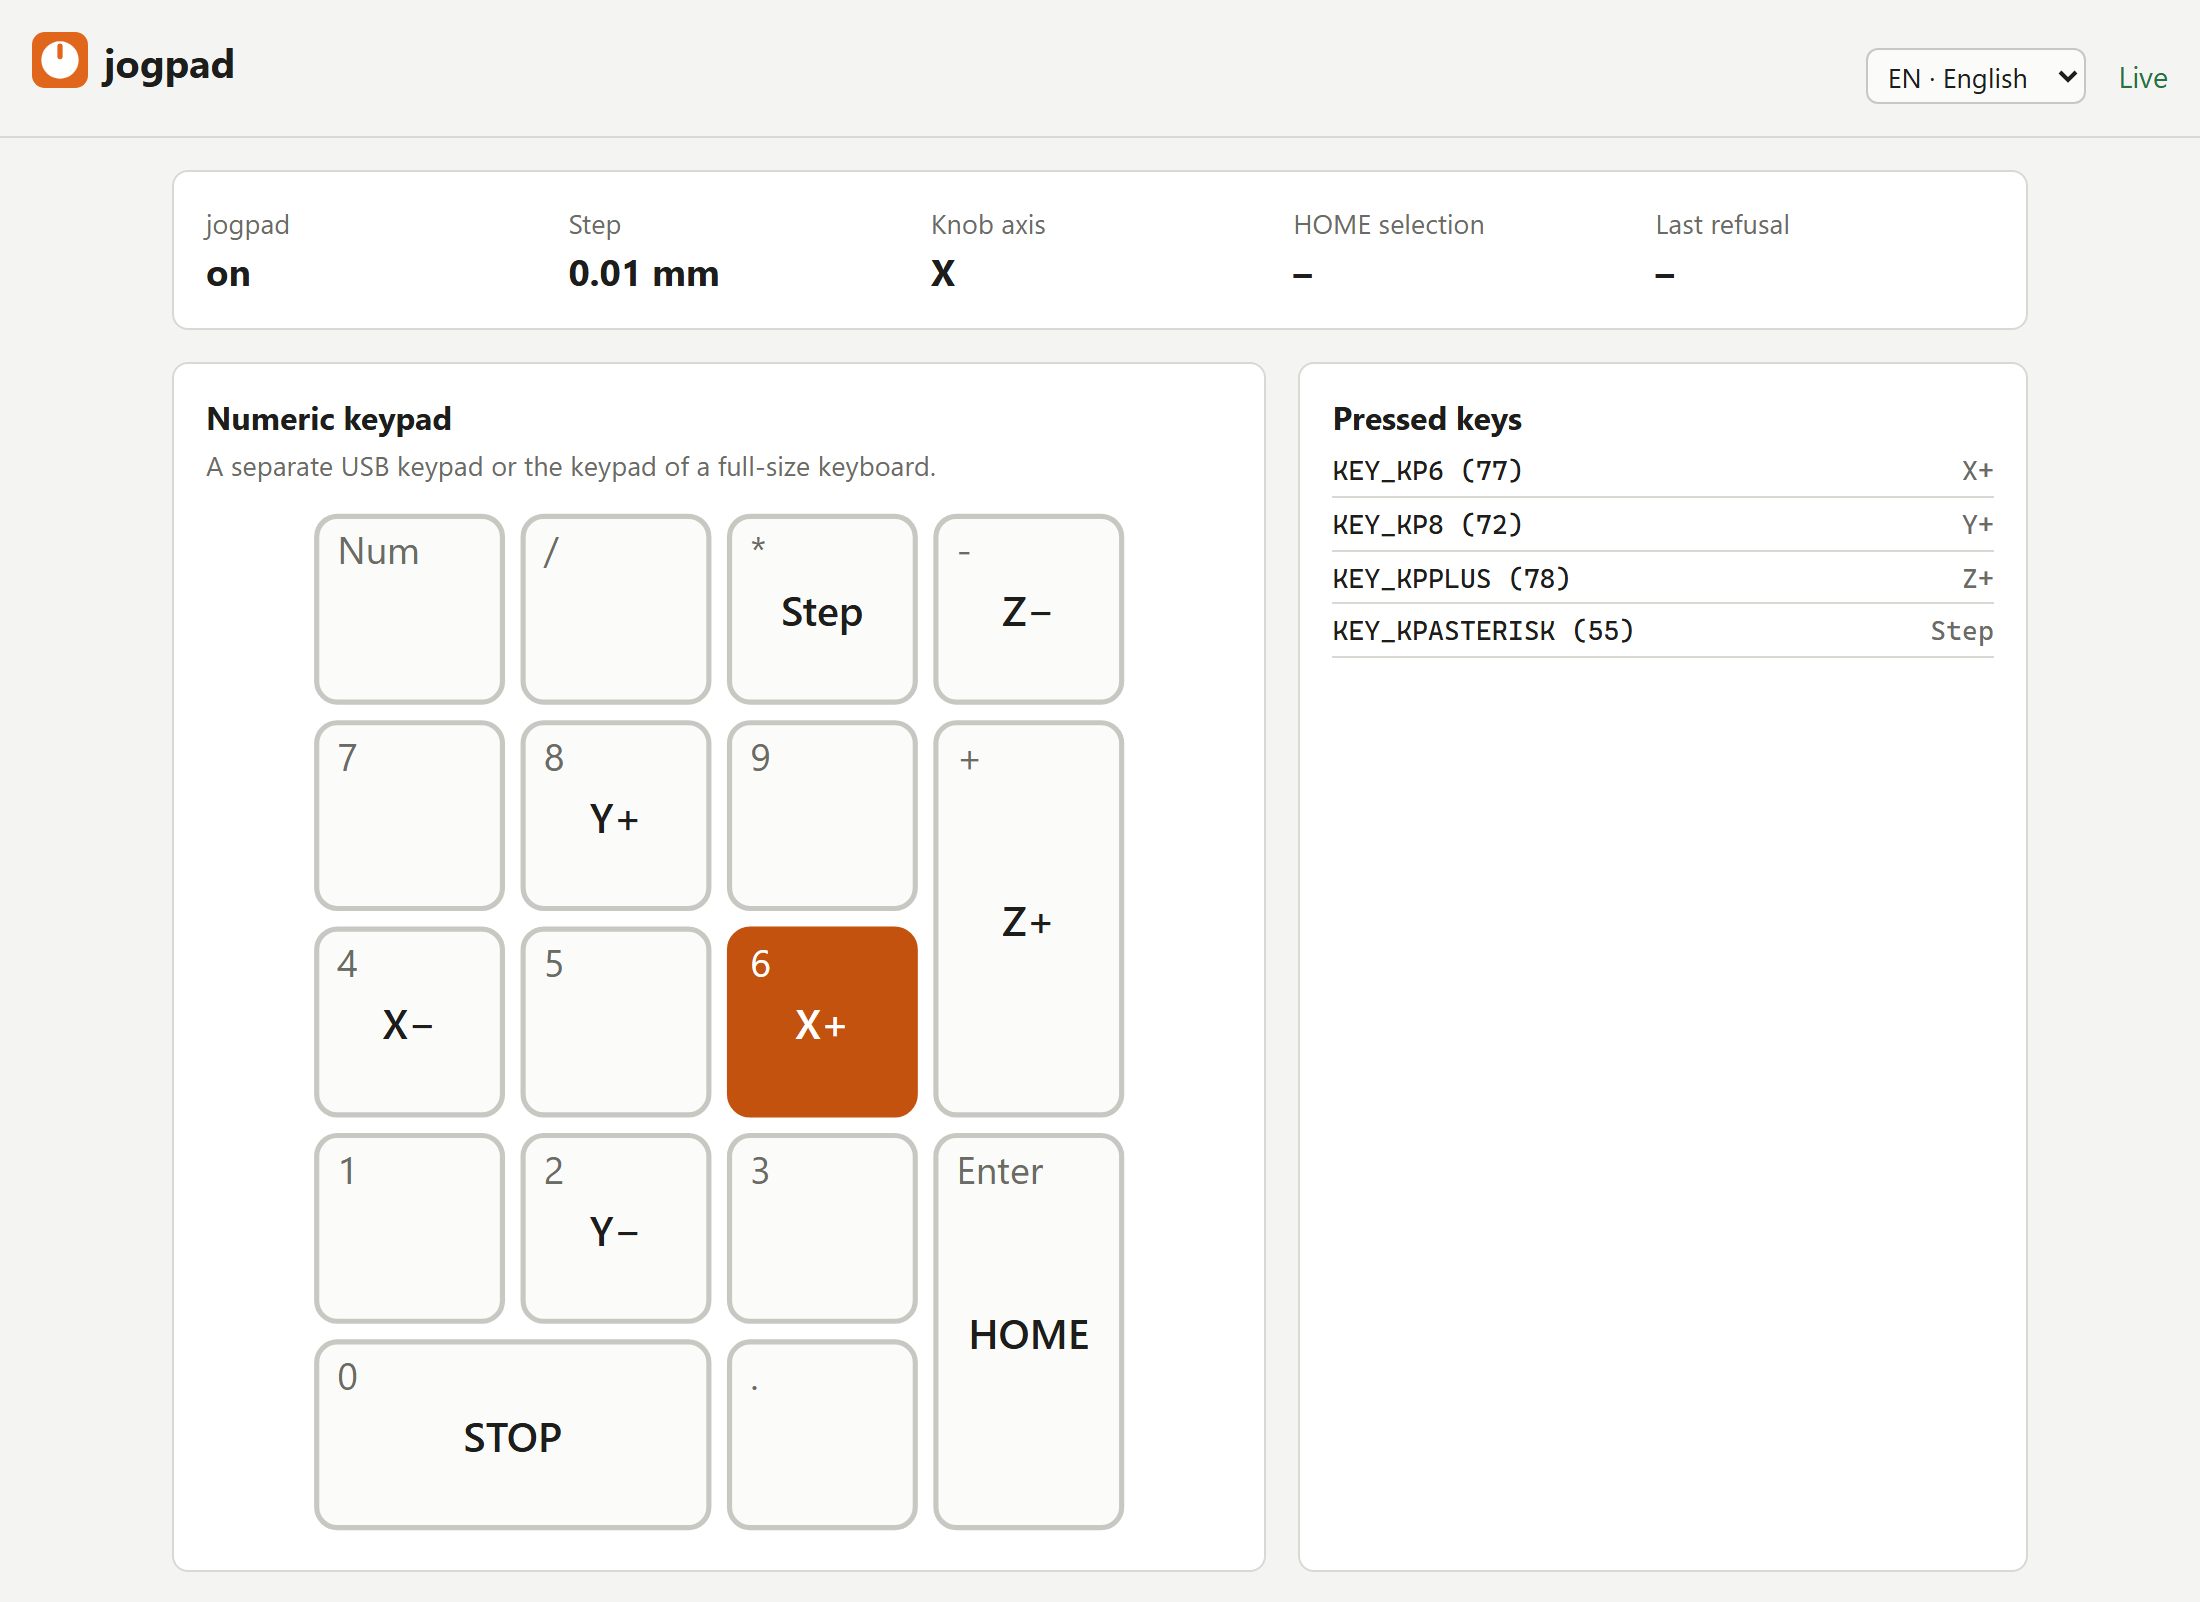
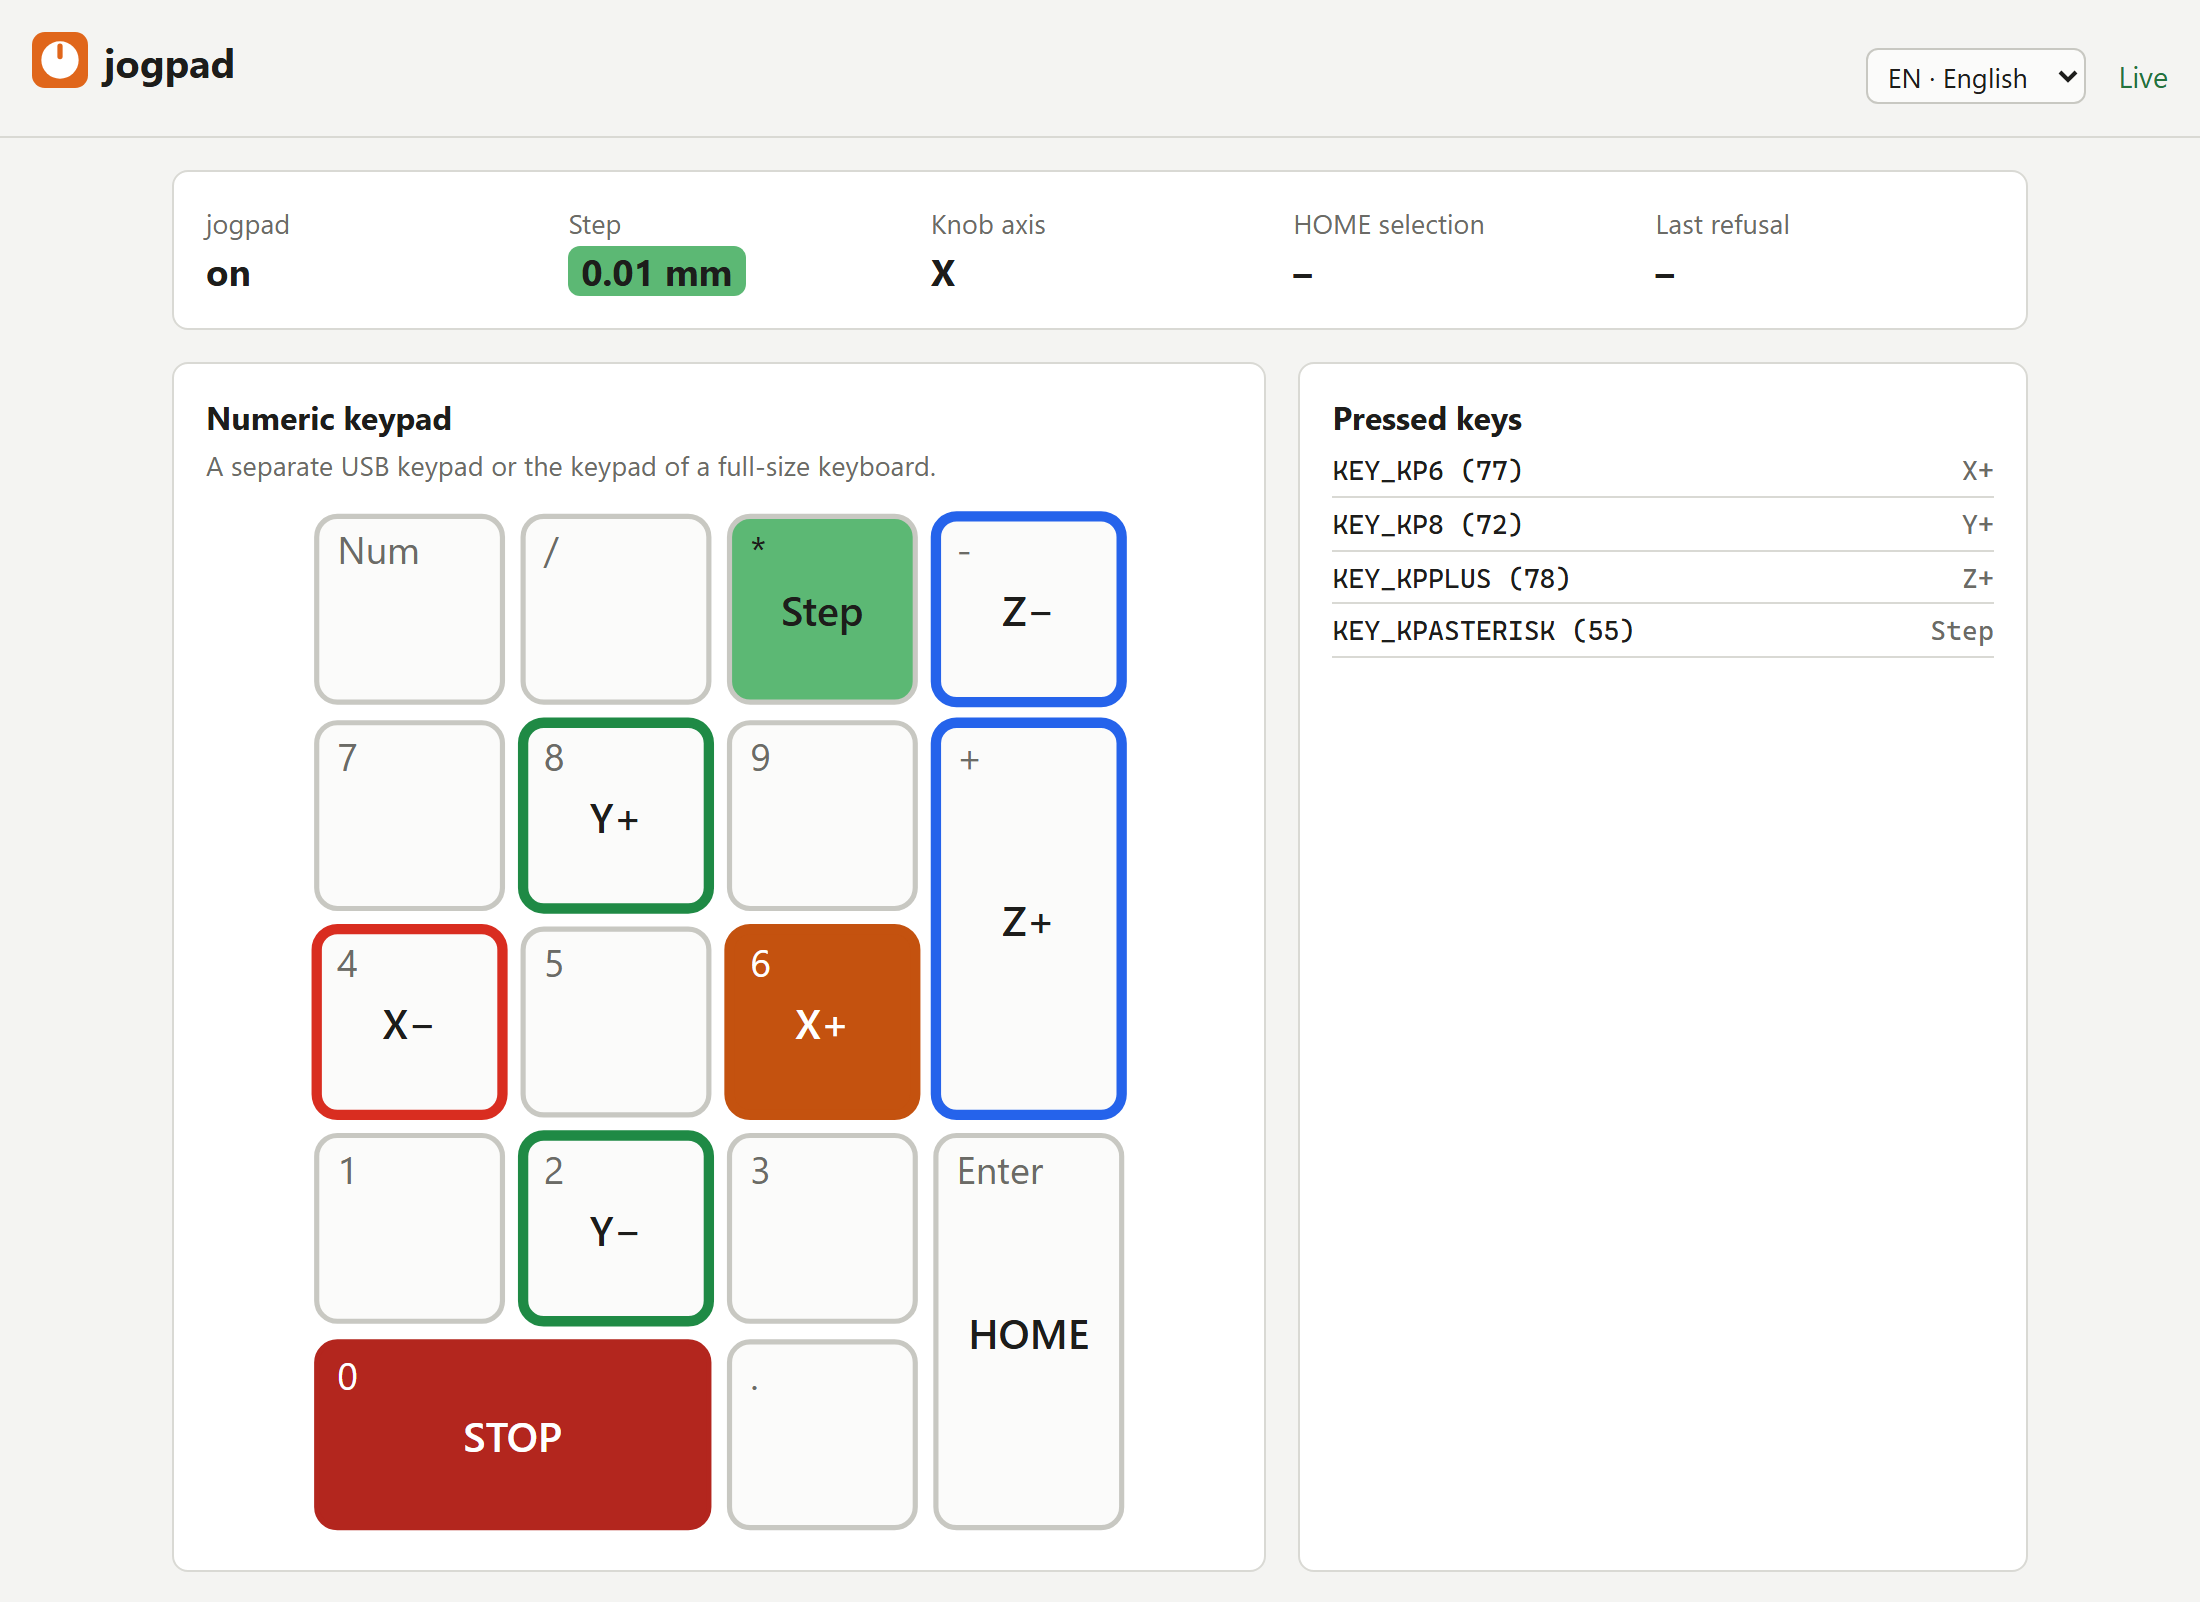
feat: the web page shows axes, STOP and the step size in colour
The drawing of the pad and the state bar now use colour, on the web page
and in the Mainsail/Fluidd panel:

- X, Y and Z keys get red, green and blue edges, as in slicers. A knob
bound to `selected_plus`/`selected_minus` takes the colour of the
currently selected axis; a control that moves two axes stays neutral.
- STOP is filled red.
- The step size in the state bar and the step key are green for the
smallest step, yellow in between and red for the largest. The rank is by
size, so `steps = [1, 0.1, 0.01]` still shows 1 mm in red. With a single
step there is no colour.

Fills and edges keep the contrast rules in `tokens.css`: text on fills
at 4.5:1 or more, axis edges at 3:1 or more against a key, in light and
dark. The text stays, so colour is never the only hint.

The CH57x pad's LED stays untouched: its protocol has one colour for all
keys, and the pad stores it in flash.

Checked in the browser with the numpad and the CH57x layout, light and
dark, including a knob that is both step key and Z. Screenshots
regenerated.

Changed region(s): [[0.1236, 0.3121, 0.5255, 0.9675], [0.2473, 0.1561, 0.34, 0.1873]]

diff --git a/src/jogpad/web/app.js b/src/jogpad/web/app.js
@@ -151,7 +151,8 @@ function drawPad(pad) {
       text(name, { ...middle, class: "action", y: y + h / 2 + 5 + offset }, group);
     });
     const turn = text("", { ...middle, class: "turn", y: y + h - 8 }, group);
-    controls.set(c.id, { group, turn });
+    group.classList.toggle("stop", Object.values(actions).includes("stop"));
+    controls.set(c.id, { group, turn, actions: Object.values(actions) });
   }
   root.setAttribute("viewBox", `0 0 ${width} ${height}`);
 }
@@ -292,6 +293,7 @@ async function changed(newConfig) {
   drawPad(await getJson(`/api/pad?lang=${document.documentElement.lang}`));
   renderKeys();
   renderDirections();
+  refreshState();
 }
 
 // -- language -----------------------------------------------------------------
@@ -394,6 +396,35 @@ async function setSwitch(on) {
 
 // -- live state ---------------------------------------------------------------
 
+// Ranked by size, not by position in `steps`, which may run from large to small.
+function stepSize(step) {
+  const steps = [...new Set(config.jog.steps)].sort((a, b) => a - b);
+  const i = steps.indexOf(step);
+  if (i < 0 || steps.length < 2) return null;
+  if (i === 0) return "small";
+  return i === steps.length - 1 ? "large" : "middle";
+}
+
+// A knob on the selected axis takes that axis's colour; a control that moves
+// two axes takes none.
+function colourControls(state) {
+  const size = stepSize(state.step);
+  for (const { group, actions } of controls.values()) {
+    const axes = new Set(
+      actions
+        .map((a) => (a.startsWith("selected_") ? state.selected_axis : a.match(/^([xyz])_/)?.[1]))
+        .filter(Boolean)
+        .map((axis) => axis.toLowerCase()),
+    );
+    for (const axis of ["x", "y", "z"]) {
+      group.classList.toggle(`axis-${axis}`, axes.size === 1 && axes.has(axis));
+    }
+    for (const s of ["small", "middle", "large"]) {
+      group.classList.toggle(`step-${s}`, actions.includes("step") && size === s);
+    }
+  }
+}
+
 async function refreshState() {
   try {
     const s = await getJson("/api/state");
@@ -408,6 +439,10 @@ async function refreshState() {
     $("switched-off").hidden = switchedOn !== false;
     document.body.classList.toggle("switched-off", switchedOn === false);
     $("step").textContent = `${s.step} mm`;
+    const size = stepSize(s.step);
+    if (size) $("step").dataset.size = size;
+    else delete $("step").dataset.size;
+    colourControls(s);
     $("axis").textContent = s.selected_axis;
     $("home").textContent = s.home_selection === null ? "–" : s.home_selection.join(" ") || t("ui.home_all");
     $("refusal").textContent = s.last_refusal || "–";

diff --git a/src/jogpad/web/style.css b/src/jogpad/web/style.css
@@ -68,6 +68,17 @@ section {
 .state div { display: grid; gap: 0.15rem; }
 .state span { color: var(--muted); font-size: 0.85rem; }
 .state strong { font-size: 1.15rem; font-variant-numeric: tabular-nums; }
+/* Traffic light for the step size, so a large step is seen before it moves. */
+#step[data-size] {
+  justify-self: start;
+  padding: 0 0.4rem;
+  border-radius: var(--radius-small);
+  color: var(--step-text);
+  white-space: nowrap;
+}
+#step[data-size="small"] { background: var(--step-small); }
+#step[data-size="middle"] { background: var(--step-middle); }
+#step[data-size="large"] { background: var(--step-large); }
 
 .note { margin: 0 0 0.75rem; color: var(--muted); font-size: 0.85rem; }
 .note:empty { display: none; }
@@ -115,6 +126,21 @@ section {
 .control .label { fill: var(--muted); font-size: 11px; }
 .control .action { font-size: 12px; font-weight: 600; }
 .control .turn { fill: var(--accent); font-size: 14px; font-weight: 700; }
+
+/* Axes in the colours slicers use. Fills only for STOP and for the step key,
+   which shows the current step size like the state bar. */
+.control.axis-x rect, .control.axis-x circle { stroke: var(--axis-x); }
+.control.axis-y rect, .control.axis-y circle { stroke: var(--axis-y); }
+.control.axis-z rect, .control.axis-z circle { stroke: var(--axis-z); }
+.control[class*="axis-"] rect, .control[class*="axis-"] circle { stroke-width: calc(var(--border) * 3); }
+.control.stop rect, .control.stop circle { fill: var(--stop); stroke: var(--stop); }
+.control.stop text { fill: var(--stop-text); }
+.control.step-small rect, .control.step-small circle { fill: var(--step-small); }
+.control.step-middle rect, .control.step-middle circle { fill: var(--step-middle); }
+.control.step-large rect, .control.step-large circle { fill: var(--step-large); }
+.control[class*="step-"] text { fill: var(--step-text); }
+/* A knob's label sits outside its circle, on the page. */
+.control circle ~ .label { fill: var(--muted); }
 
 .control.active rect, .control.active circle { fill: var(--accent); stroke: var(--accent); }
 .control.active text { fill: var(--accent-text); }
@@ -200,4 +226,5 @@ button:focus-visible { outline: 2px solid var(--accent); outline-offset: 2px; }
 .panel .state { grid-column: auto; gap: 0.4rem; grid-template-columns: repeat(5, minmax(0, 1fr)); }
 .panel .state span { font-size: 0.7rem; }
 .panel .state strong, .panel .state .toggle { font-size: 0.95rem; }
+.panel #step[data-size] { padding: 0 0.2rem; }
 .panel #pad { max-height: none; }

diff --git a/src/jogpad/web/tokens.css b/src/jogpad/web/tokens.css
@@ -1,6 +1,8 @@
 /* Design tokens. style.css uses only these variables. Text, muted text and
    the accent stay at 4.5:1 or more against the surface, and the accent text
-   against the accent, in light and dark. */
+   against the accent, in light and dark. The axis colours, as edges, stay at
+   3:1 or more against a key. The step colours, smallest to largest step, and
+   STOP are fills, the same in both, with their text at 4.5:1 or more. */
 
 :root {
   --bg: #f4f4f2;
@@ -14,6 +16,15 @@
   --accent-text: #ffffff;
   --ok: #23733d;
   --warn: #b3261e;
+  --step-small: #5cb874;
+  --step-middle: #f0b429;
+  --step-large: #f2554d;
+  --step-text: #1d1d1b;
+  --stop: #b3261e;
+  --stop-text: #ffffff;
+  --axis-x: #d92d20;
+  --axis-y: #1f8a45;
+  --axis-z: #2563eb;
   --radius: 8px;
   --radius-small: 6px;
   --border: 1px;
@@ -36,5 +47,8 @@
     --accent-text: #161615;
     --ok: #5bbf7a;
     --warn: #f2726a;
+    --axis-x: #f2726a;
+    --axis-y: #4cc274;
+    --axis-z: #60a5fa;
   }
 }

diff --git a/docs/index.md b/docs/index.md
@@ -26,9 +26,9 @@ Klipper, tested on a QIDI Plus 4 with the keypad of a Logitech MX Keys S:
 
 - jog, home and stop from a numeric keypad or any USB keyboard
 - every move and homing shows up in the Mainsail or Fluidd console
-- a web page that draws the pad, shows key presses live, learns keys and checks
-  axis directions; open in the network, changes only from computers Moonraker
-  trusts
+- a web page that draws the pad with its axes in colour, shows key presses live
+  and the step size from green to red, learns keys and checks axis directions;
+  open in the network, changes only from computers Moonraker trusts
 - a switch in Mainsail and Fluidd that turns jogpad off, STOP included
 - the pad and its state as a camera panel in Mainsail and Fluidd
 - an [installer](installation.md) that sets jogpad up as a service next to

diff --git a/README.md b/README.md
@@ -80,8 +80,9 @@ Klipper:
 - jog, home and stop from a numeric keypad or any USB keyboard; tested on a
   QIDI Plus 4 with the keypad of a Logitech MX Keys S
 - every move and homing shows up in the Mainsail or Fluidd console
-- a web page in English and German that draws the pad, shows each key press
-  live, learns keys and checks the direction of each axis; reachable from
+- a web page in English and German that draws the pad with its axes in
+  colour, shows each key press live and the step size from green to red,
+  learns keys and checks the direction of each axis; reachable from
   every computer in the network, changes only from those Moonraker trusts
 - a switch in Mainsail and Fluidd that turns jogpad off, STOP included
 - the pad and its state as a camera panel in Mainsail and Fluidd

diff --git a/docs/usage.md b/docs/usage.md
@@ -126,6 +126,12 @@ pad and lights up every key you press, with the action it triggers, and shows
 step size, knob axis and the last refusal. Keys outside the drawing are listed
 too, so the page also tells you which code an unknown key sends.
 
+Colours help to find your way. The keys of X, Y and Z have red, green and
+blue edges, as in slicers; a knob on the selected axis takes the colour of
+that axis. STOP is red. The step size and the step key are green for the
+smallest step, red for the largest and yellow for those between, so a large
+step is seen before it moves the machine.
+
 Pick the drawing with `layout` under `[input]`: `numpad` (default),
 `ch57x-9k3`, or `none` for the list only.
 
